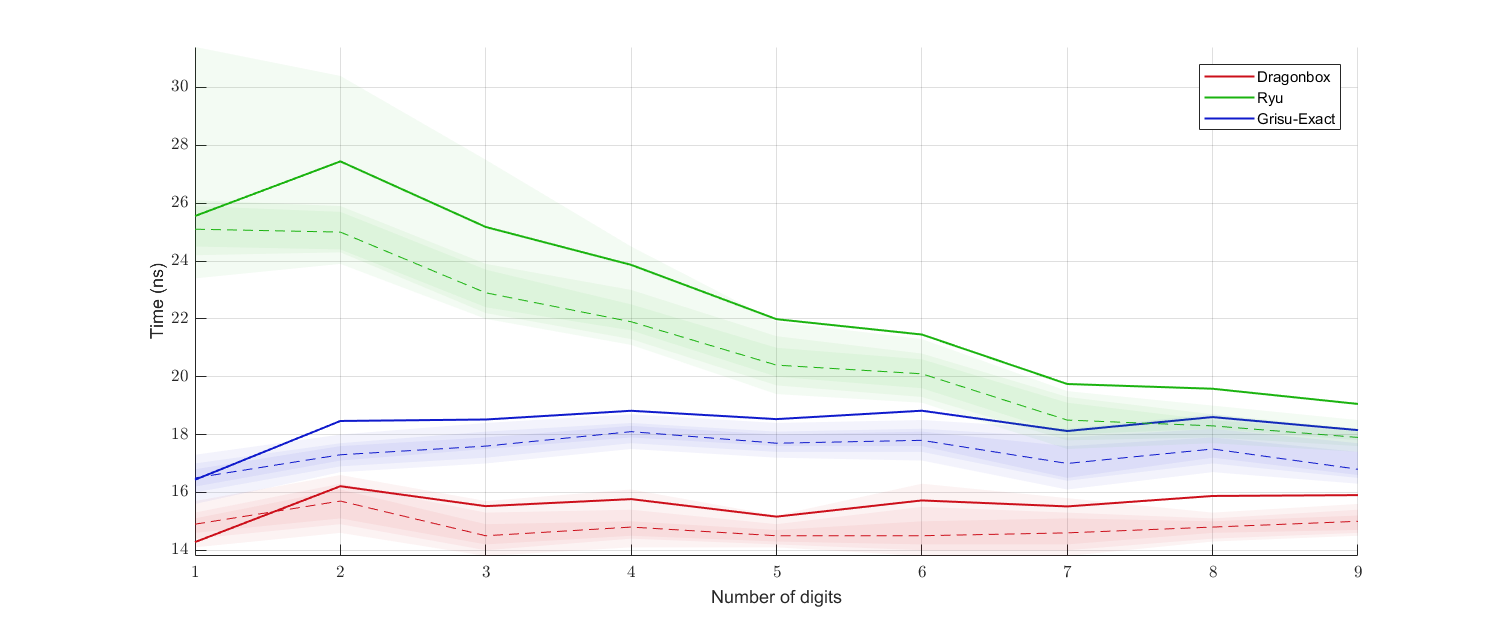
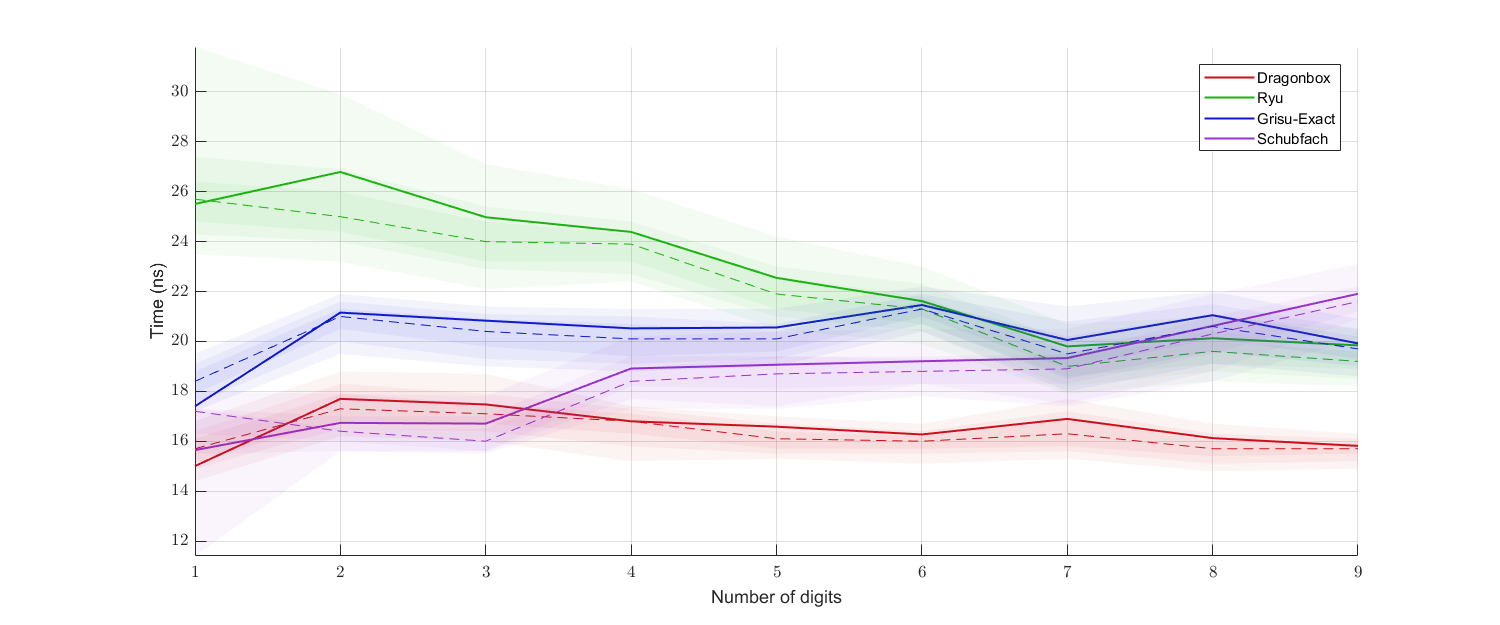
Rerun benchmarks

diff --git a/subproject/benchmark/source/dragonbox.cpp b/subproject/benchmark/source/dragonbox.cpp
@@ -32,33 +32,10 @@ namespace {
 			jkj::dragonbox::policy::correct_rounding::to_even);
 	}
 
-	void dragonbox_wo_tzremoval_float_to_chars(float x, char* buffer)
-	{
-		jkj::dragonbox::to_chars(x, buffer,
-			jkj::dragonbox::policy::trailing_zero::ignore,
-			jkj::dragonbox::policy::rounding_mode::nearest_to_even,
-			jkj::dragonbox::policy::correct_rounding::to_even);
-	}
-	void dragonbox_wo_tzremoval_double_to_chars(double x, char* buffer)
-	{
-		jkj::dragonbox::to_chars(x, buffer,
-			jkj::dragonbox::policy::trailing_zero::ignore,
-			jkj::dragonbox::policy::rounding_mode::nearest_to_even,
-			jkj::dragonbox::policy::correct_rounding::to_even);
-	}
-
 	auto dummy = []() -> register_function_for_benchmark {
-		if constexpr (benchmark_kind == benchmark_no_trailing_zero) {
-			return { "Dragonbox",
-				dragonbox_float_to_chars,
-				dragonbox_double_to_chars
-			};
-		}
-		else {
-			return { "Dragonbox (w/o trailing zero removal)",
-				dragonbox_wo_tzremoval_float_to_chars,
-				dragonbox_wo_tzremoval_double_to_chars
-			};
-		}
+		return { "Dragonbox",
+			dragonbox_float_to_chars,
+			dragonbox_double_to_chars
+		};
 	}();
 }

diff --git a/subproject/benchmark/source/schubfach.cpp b/subproject/benchmark/source/schubfach.cpp
@@ -21,21 +21,16 @@
 
 namespace {
 	void schubfach_32(float x, char* buf) {
-		schubfach::Ftoa(buf, x);
+		*schubfach::Ftoa(buf, x) = '\0';
 	}
 	void schubfach_64(double x, char* buf) {
-		schubfach::Dtoa(buf, x);
+		*schubfach::Dtoa(buf, x) = '\0';
 	}
 
 	auto dummy = []() -> register_function_for_benchmark {
-		if constexpr (benchmark_kind == benchmark_no_trailing_zero) {
-			return {};
-		}
-		else {
-			return { "Schubfach",
-				schubfach_32,
-				schubfach_64
-			};
-		}
+		return { "Schubfach",
+			schubfach_32,
+			schubfach_64
+		};
 	}();
 }

diff --git a/subproject/benchmark/source/grisu_exact.cpp b/subproject/benchmark/source/grisu_exact.cpp
@@ -33,14 +33,9 @@ namespace {
 	}
 
 	auto dummy = []() -> register_function_for_benchmark {
-		if constexpr (benchmark_kind == benchmark_no_trailing_zero) {
-			return { "Grisu-Exact",
-				grisu_exact_float_to_chars,
-				grisu_exact_double_to_chars
-			};
-		}
-		else {
-			return {};
-		}
+		return { "Grisu-Exact",
+			grisu_exact_float_to_chars,
+			grisu_exact_double_to_chars
+		};
 	}();
 }

diff --git a/subproject/benchmark/source/ryu.cpp b/subproject/benchmark/source/ryu.cpp
@@ -20,14 +20,9 @@
 
 namespace {
 	auto dummy = []() -> register_function_for_benchmark {
-		if constexpr (benchmark_kind == benchmark_no_trailing_zero) {
-			return { "Ryu",
-				f2s_buffered,
-				d2s_buffered
-			};
-		}
-		else {
-			return {};
-		}
+		return { "Ryu",
+			f2s_buffered,
+			d2s_buffered
+		};
 	}();
 }

diff --git a/subproject/benchmark/include/benchmark.h b/subproject/benchmark/include/benchmark.h
@@ -20,11 +20,6 @@
 
 #include <string_view>
 
-static constexpr enum {
-	benchmark_no_trailing_zero,
-	benchmark_allow_trailing_zero
-} benchmark_kind = benchmark_no_trailing_zero;
-
 struct register_function_for_benchmark {
 	register_function_for_benchmark() = default;
 
